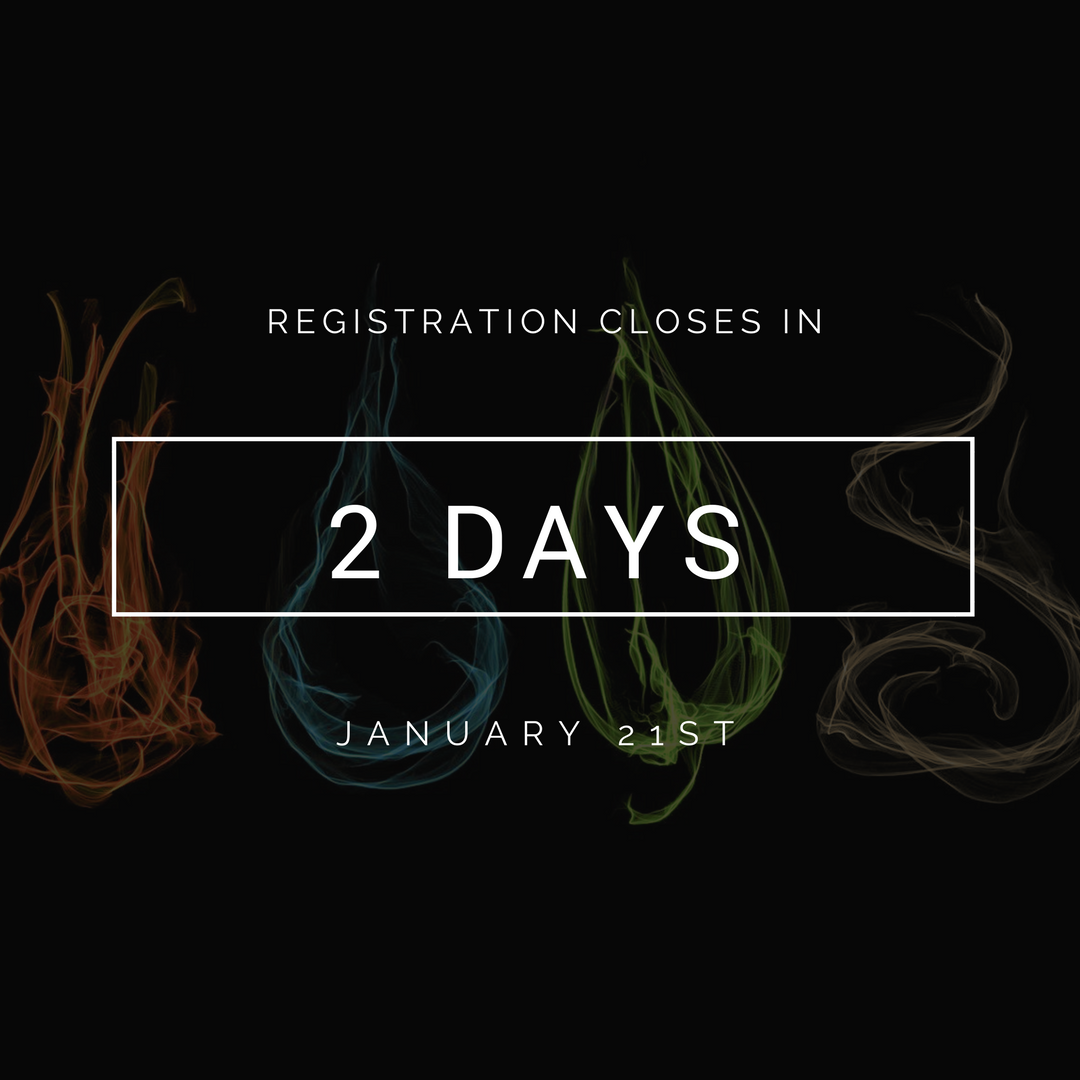
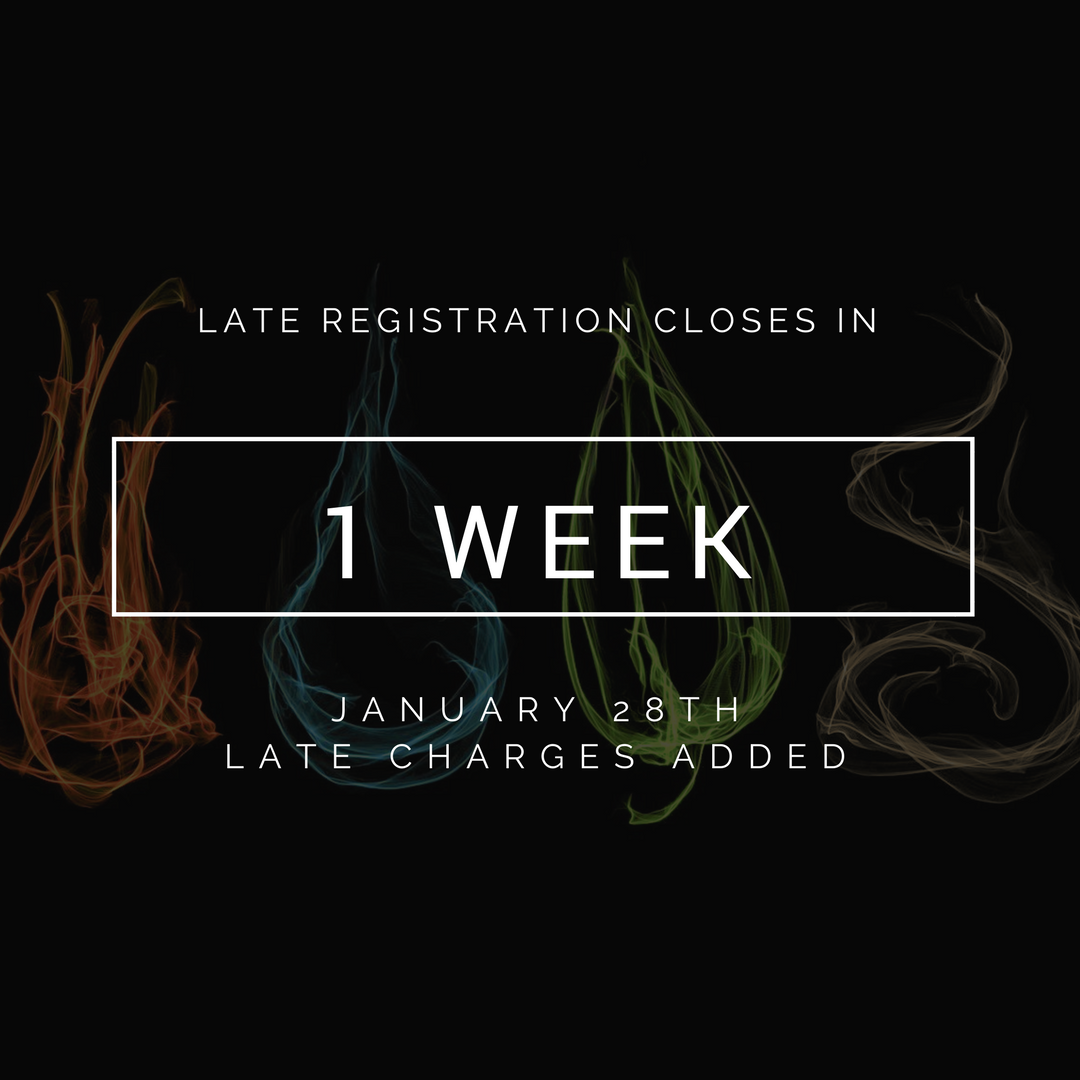
Time

diff --git a/index.html b/index.html
@@ -49,8 +49,8 @@
         <div class="card" id="Welcome"  style="transform: translate(-50%,-51%); opacity: 1;"> <!-- style="transform: translate(-50%,-51%); opacity: 1;" -->
             <div id="welcome-title">Welcome <span id="welcome-title-end">to the PACURH Regional Business Conference!</span> </div>
             <div class="welcome-card" id="welcome-count">
-                Registration Closes On: Jan. 21, 2018
-                <div class='countdown' id="countdown2" data-date="2018-01-21"></div>
+                Late Registration Closes On: Jan. 28, 2018
+                <div class='countdown' id="countdown2" data-date="2018-01-28"></div>
             </div>
 
             <div class="welcome-card" id="gallery">
@@ -68,9 +68,9 @@
                     
 
                     <img class="gallery" src="assets/img/gallery/human_c.jpg">
-                    <img class="gallery" src="assets/img/gallery/air.png">
+<!--                     <img class="gallery" src="assets/img/gallery/air.png">
                     <img class="gallery" src="assets/img/gallery/campanile_bay.jpg">
-                    <img class="gallery" src="assets/img/gallery/earth.png">
+                    <img class="gallery" src="assets/img/gallery/earth.png"> -->
                     <img class="gallery" src="assets/img/gallery/unit_1.jpg">
                     <img class="gallery" src="assets/img/gallery/water.png">
                     <img class="gallery" src="assets/img/gallery/sather_gate.jpg">
